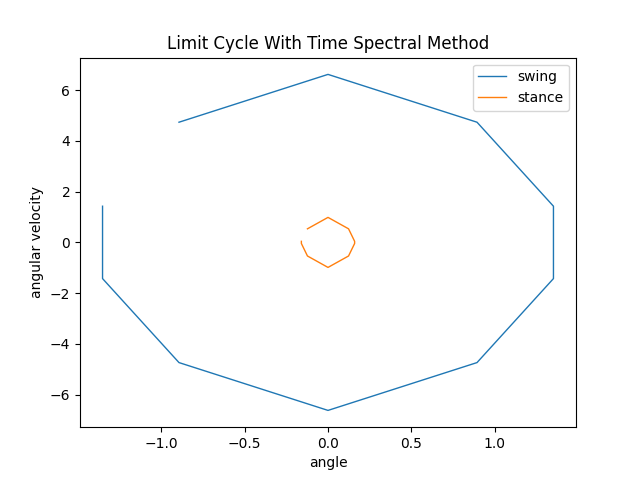
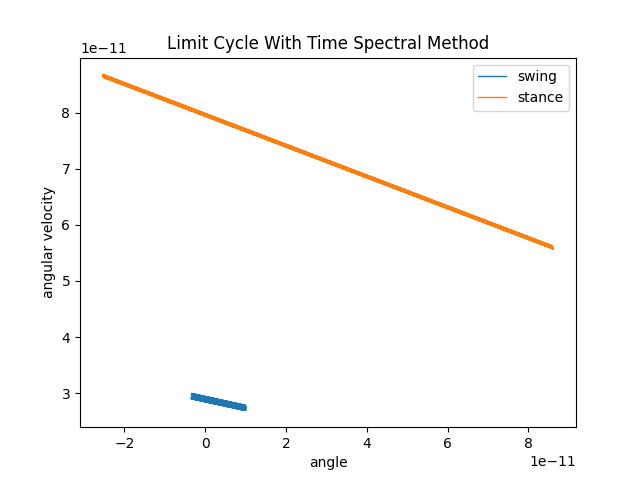
updated with tsm

diff --git a/code/time-spectral/TS_solver.py b/code/time-spectral/TS_solver.py
@@ -10,6 +10,7 @@ class TSM(object):
     n,
     Ndof,
     T,
+    phi = 0.05,
     x=None
     ):
         self.force = force
@@ -18,6 +19,7 @@ class TSM(object):
         self.w = np.zeros(n*Ndof)
         self.T = T
         self.omega = 2*np.pi/T # dummy for now
+        self.phi_constraint = -2*phi
         if x is None:
             x = [0.5, 0.5]
         else:
@@ -36,12 +38,59 @@ class TSM(object):
         self.w[:] = u
 
 
+
     # set up residual
     def compute_Rdyn(self):
+        #print('----NEW RES----')
         w = self.w
         force = self.force
         n = self.n
         Ndof = self.Ndof
+        phibound = np.zeros(2)
+        
+
+        """# find point where heel-strike occurs (compass gait specific)
+        not working
+        plan:
+        1. run time spectral method with system without collision from initial point
+        2. find where collision point is from converged solution (may need linear interpolation
+        due to lack of small timestep)
+        3. run time spectral method starting from collision states
+
+        4. repeat for x # of cycles
+        print(w)
+        from calc_transition import calc_trans
+        for j in range(n-1):
+            w1_prev = w[j*Ndof]
+            w2_prev = w[j*Ndof + 1]
+            w3_prev = w[j*Ndof + 2]
+            w4_prev = w[j*Ndof + 3]
+
+            w1_cur = w[j*Ndof + 4]
+            w2_cur = w[j*Ndof + 4 + 1]
+            w3_cur = w[j*Ndof + 4 + 2]
+            w4_cur = w[j*Ndof + 4 + 3]
+
+
+            phibound[0] = w1_prev + w2_prev
+            phibound[1] = w1_cur + w2_cur
+            #print(phibound)
+            #print('w1 prev: ',w1_prev_cur)
+            #print('w1 current: ', w1_cur)
+            if ((((phibound[0] > self.phi_constraint) and (phibound[1] < self.phi_constraint)) or ((phibound[0] < self.phi_constraint) and (phibound[1] > self.phi_constraint)))):
+                print('----TRANSITION----')
+                print([w1_cur, w2_cur, w3_cur, w4_cur])
+                newstates = calc_trans(w1_cur,w2_cur,w3_cur,w4_cur)
+                w[j*Ndof] = newstates[0]
+                w[j*Ndof + 1] = newstates[1]
+                w[j*Ndof + 2] = newstates[2]
+                w[j*Ndof + 3] = newstates[3]
+                break
+
+        
+        self.w[:] = w"""
+
+
 
         wdot = self.compute_dwdt()
 
@@ -53,6 +102,9 @@ class TSM(object):
             Rdyn[i * Ndof : (i + 1) * Ndof] = -force(w_loc, self.x)[:]
 
         Rdyn[:] += wdot[:]
+
+            
+
         #print(Rdyn)
         return Rdyn
 
@@ -116,7 +168,7 @@ class TSM(object):
         xin[0:4] = states_init[:]
         
         for i in range(n* Ndof):
-            w0[i] = 4* np.sin(float(i) / float(n * Ndof) * 2.0 * np.pi)
+            w0[i] = 0.3* np.sin(float(i) / float(n * Ndof) * 2.0 * np.pi)
 
 
         xin[4:] = w0[4:]
@@ -130,6 +182,8 @@ class TSM(object):
         #Rdyn = self.compute_Rdyn
         #print(Rdyn)
         sol = optimize.newton_krylov(self.res_wrapper, xin, f_tol=tol)
+        #print(self.w)
+        #print(sol)
 
         self.w[:] = sol[:]
 

diff --git a/code/time-spectral/tsm_main.py b/code/time-spectral/tsm_main.py
@@ -18,7 +18,6 @@ def force(w, x):
     b = x[1]
     mh = 10
     m = 5
-    phi = 0.05
     l = a + b
     g = 9.81
 
@@ -40,7 +39,6 @@ def force(w, x):
     H[0,1] = H12
     H[1,0] = H21
     H[1,1] = H22
-    #print(H)
     Hinv = inv(H)
 
     B = np.zeros((2,2))
@@ -58,8 +56,7 @@ def force(w, x):
     A[3,2] = A_im[1,0]
     A[3,3] = A_im[1,1]
     
-    #print(A_im)
-    #print(A)
+
 
     #force from gravity matrix (C):
     G = np.zeros(2)
@@ -70,28 +67,66 @@ def force(w, x):
     C = np.zeros(4)
     C[2] = C_int[0]
     C[3] = C_int[1]
-    #print(C)
+
 
     f = np.zeros(4)
     f[:] += A.dot(w) + C[:]
-    #print(f)
     
     # return total forcing term
     return f
 
 
 # set up parameters for TSM
-n = 10
+n = 30
 Ndof = 4
 x = [.5, .5]
-T = 1.5
+T = 0.25
 
-# create TSM object
-compass = TSM(force, n, Ndof,T, x=x)
-xin = compass.generate_xin()
-print(xin)
-sol = compass.solve(xin)
+phi = 0.05 # set ramp angle
+phi_constraint = -2*phi
+
+# create TSM object for pre collision
+compass_precol = TSM(force, n, Ndof,T, x=x,phi=phi)
+xin = compass_precol.generate_xin()
+sol = compass_precol.solve(xin)
 print(sol)
+
+# find collision point
+phibound = np.zeros(2)
+from calc_transition import calc_trans
+for j in range(n-1):
+    w1_prev = sol[j*Ndof]
+    w2_prev = sol[j*Ndof + 1]
+    w3_prev = sol[j*Ndof + 2]
+    w4_prev = sol[j*Ndof + 3]
+
+    w1_cur = sol[j*Ndof + 4]
+    w2_cur = sol[j*Ndof + 4 + 1]
+    w3_cur = sol[j*Ndof + 4 + 2]
+    w4_cur = sol[j*Ndof + 4 + 3]
+
+
+    phibound[0] = w1_prev + w2_prev
+    phibound[1] = w1_cur + w2_cur
+    #print(phibound)
+    #print('w1 prev: ',w1_prev_cur)
+    #print('w1 current: ', w1_cur)
+    if ((((phibound[0] > phi_constraint) and (phibound[1] < phi_constraint)) or ((phibound[0] < phi_constraint) and (phibound[1] > phi_constraint)))) and (j>2):
+        print('----TRANSITION----')
+        print([w1_cur, w2_cur, w3_cur, w4_cur])
+        newstates = calc_trans(w1_cur,w2_cur,w3_cur,w4_cur)
+        print(newstates)
+"""
+# create object for 2nd run of TSM
+compass_postcol = TSM(force, n, Ndof,T, x=x,phi=phi)
+xin[0:4] = newstates[:]
+#print(xin)
+sol = compass_postcol.solve(xin)
+#print(sol)
+"""
+
+
+
 
 # data management and plot
 x1arr = np.zeros(n)
@@ -114,7 +149,7 @@ for i in range(n):
 
 import matplotlib.pyplot as plt
 import matplotlib as matplotlib
-import niceplots
+#import niceplots
 
 #plt.style.use(niceplots.get_style())
 

diff --git a/code/time-spectral/calc_transition.py b/code/time-spectral/calc_transition.py
@@ -1,0 +1,35 @@
+import numpy as np
+from numpy.linalg import inv
+
+def calc_trans(x1, x2, x3, x4, m=5, mh=10, a=0.5, b=0.5):
+    l = a+b
+
+    alpha = np.abs((x2 - x1)) / 2 # angle between legs
+    alpha = float(alpha)
+    # Q+ matrix
+    Qp11 = m*b*(b-l*np.cos(2*alpha))
+    Qp12 = m*l*(l-b*np.cos(2*alpha)) + m*a**2 + mh*l**2
+    Qp21 = m*b**2
+    Qp22 = -m*b*l*np.cos(2*alpha)
+  
+    #Q- matrix
+    Qm11 = -m*a*b
+    Qm12 = -m*a*b + (mh*l**2 + 2*m*a*l)*np.cos(2*alpha)
+    Qm21 = 0
+    Qm22 = -m*a*b
+        
+    Qplus = np.array([[Qp11, Qp12], [Qp21, Qp22]])
+    Qminus = np.array([[Qm11, Qm12], [Qm21, Qm22]])
+
+    #print(Qplus, Qminus)
+    Qplus_inverted = inv(Qplus)
+
+    # H transition matrix
+    H = np.dot(Qplus_inverted, Qminus)
+
+    # new x3 and x4
+    newx3 = H[0,0]*x3 + H[0, 1]*x4
+    newx4 = H[1,0]*x3 + H[1, 1]*x4
+
+    new_states_init = [x2, x1, newx3, newx4]
+    return new_states_init
